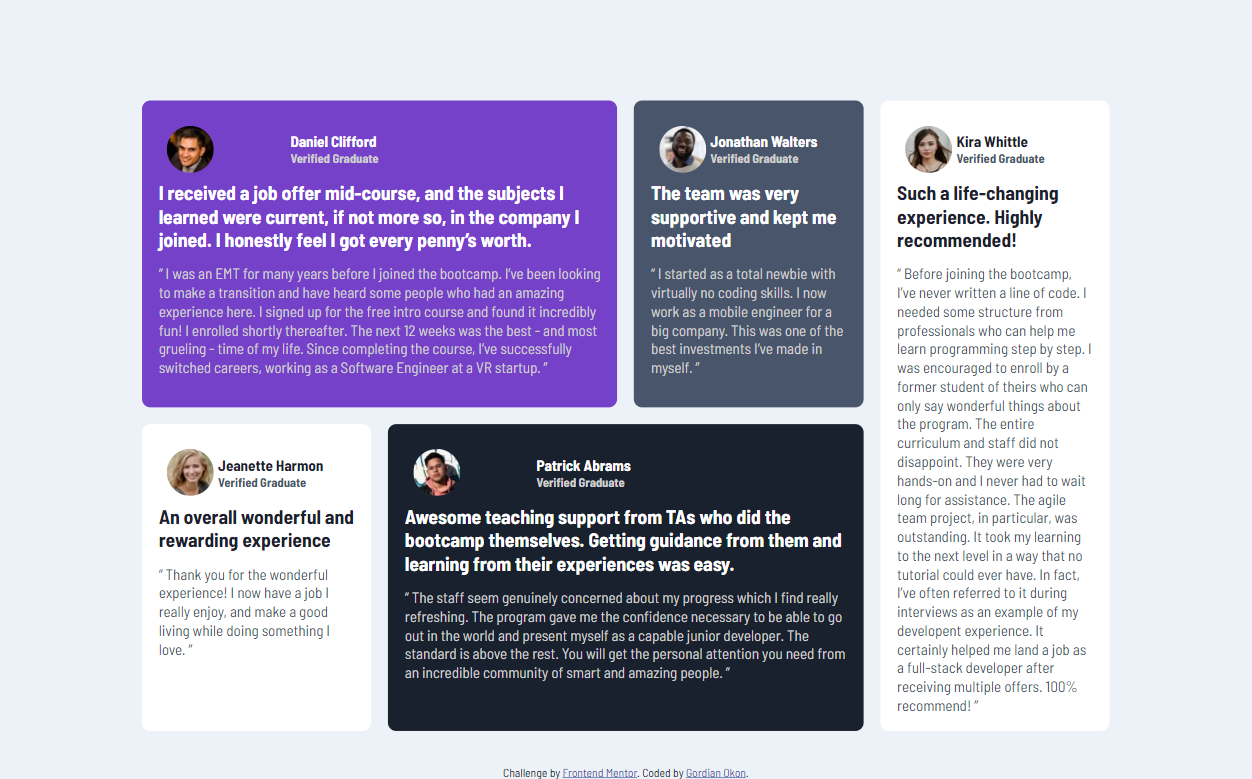
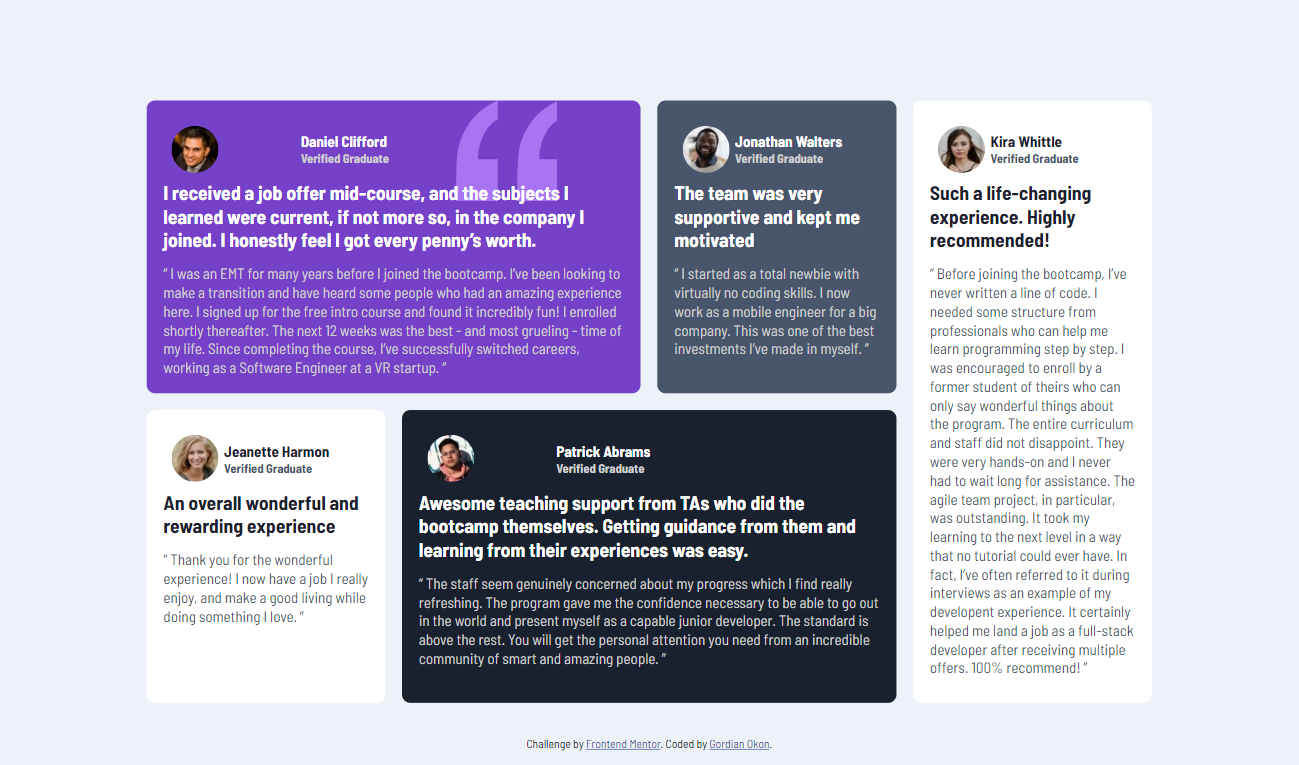
fix: changed the p to h1 tags and styles

Changed region(s): [[0.0935, 0.1203, 0.6853, 0.8719], [0.3115, 0.1503, 0.8722, 1.0], [0.1246, 0.5712, 0.2804, 0.8418]]

diff --git a/index.html b/index.html
@@ -24,11 +24,11 @@
           </div>
         </div>
         <div class="para-wrapper">
-          <p>
+          <h1>
             I received a job offer mid-course, and the subjects I learned were
             current, if not more so, in the company I joined. I honestly feel I
             got every penny’s worth.
-          </p>
+          </h1>
           <p>
             “ I was an EMT for many years before I joined the bootcamp. I’ve
             been looking to make a transition and have heard some people who had
@@ -49,7 +49,7 @@
           </div>
         </div>
         <div class="para-wrapper">
-          <p>The team was very supportive and kept me motivated</p>
+          <h1>The team was very supportive and kept me motivated</h1>
           <p>
             “ I started as a total newbie with virtually no coding skills. I now
             work as a mobile engineer for a big company. This was one of the
@@ -66,7 +66,7 @@
           </div>
         </div>
         <div class="para-wrapper">
-          <p>An overall wonderful and rewarding experience</p>
+          <h1>An overall wonderful and rewarding experience</h1>
           <p>
             “ Thank you for the wonderful experience! I now have a job I really
             enjoy, and make a good living while doing something I love. ”
@@ -82,11 +82,11 @@
           </div>
         </div>
         <div class="para-wrapper">
-          <p>
+          <h1>
             Awesome teaching support from TAs who did the bootcamp themselves.
             Getting guidance from them and learning from their experiences was
             easy.
-          </p>
+          </h1>
           <p>
             “ The staff seem genuinely concerned about my progress which I find
             really refreshing. The program gave me the confidence necessary to
@@ -106,7 +106,7 @@
           </div>
         </div>
         <div class="para-wrapper">
-          <p>Such a life-changing experience. Highly recommended!</p>
+          <h1>Such a life-changing experience. Highly recommended!</h1>
           <p>
             “ Before joining the bootcamp, I’ve never written a line of code. I
             needed some structure from professionals who can help me learn

diff --git a/style.css b/style.css
@@ -23,7 +23,7 @@ main {
   border-radius: 10px;
 }
 
-.child p:first-of-type {
+.child h1 {
   font-weight: 700;
   font-size: 1.3rem;
   margin-bottom: 15px;
@@ -42,7 +42,7 @@ main {
   background-image: url("./images/bg-pattern-quotation.svg");
   top: 0;
   z-index: -1;
-  right: 50px;
+  right: 100px;
   width: 120px;
   height: 120px;
 }
@@ -80,33 +80,33 @@ main {
 }
 
 .one h4,
-.one p:first-of-type,
+.one h1,
 .two h4,
-.two p:first-of-type,
-.four h4,
-.four p:first-of-type {
+.two h1,
+.four h1,
+.four p {
   color: hsl(0, 0%, 100%);
 }
 
 .one h5,
-.one p:nth-of-type(2),
+.one p,
 .two h5,
-.two p:nth-of-type(2),
+.two p,
 .four h5,
-.four p:nth-of-type(2) {
+.four p {
   color: hsl(0, 0%, 81%);
 }
 
-.three p:first-of-type,
+.three h1,
 .three h4,
-.five p:first-of-type,
+.five h1,
 .five h4 {
   color: hsl(219, 29%, 14%);
 }
 
-.three p:nth-of-type(2),
+.three p,
 .three h5,
-.five p:nth-of-type(2),
+.five p,
 .five h5 {
   color: hsl(217, 19%, 35%);
 }

diff --git a/README.md b/README.md
@@ -1,91 +1,49 @@
-# Frontend Mentor - Testimonials grid section
+# Frontend Mentor - Testimonials grid section solution
 
-![Design preview for the Testimonials grid section coding challenge](./design/desktop-preview.jpg)
+This is a solution to the [Testimonials grid section challenge on Frontend Mentor](https://www.frontendmentor.io/challenges/testimonials-grid-section-Nnw6J7Un7). Frontend Mentor challenges help you improve your coding skills by building realistic projects.
 
-## Welcome! 👋
+## Table of contents
 
-Thanks for checking out this front-end coding challenge.
+- [Overview](#overview)
+  - [The challenge](#the-challenge)
+  - [Screenshot](#screenshot)
+  - [Links](#links)
+  - [Built with](#built-with)
+  - [What I learned](#what-i-learned)
+- [Author](#author)
 
-[Frontend Mentor](https://www.frontendmentor.io) challenges help you improve your coding skills by building realistic projects.
+## Overview
 
-**To do this challenge, you need a basic understanding of HTML and CSS.**
+### The challenge
 
-## The challenge
-
-Your challenge is to build out this testimonials grid section and get it looking as close to the design as possible.
-
-You can use any tools you like to help you complete the challenge. So if you've got something you'd like to practice, feel free to give it a go.
-
-Your users should be able to:
+Users should be able to:
 
 - View the optimal layout for the site depending on their device's screen size
 
-Want some support on the challenge? [Join our community](https://www.frontendmentor.io/community) and ask questions in the **#help** channel.
+### Screenshot
 
-## Where to find everything
+![](./screenshot.png)
 
-Your task is to build out the project to the designs inside the `/design` folder. You will find both a mobile and a desktop version of the design. 
+### Links
 
-The designs are in JPG static format. Using JPGs will mean that you'll need to use your best judgment for styles such as `font-size`, `padding` and `margin`. 
+- Live Site URL: [Add live site URL here](https://testimonial-secion.vercel.app/)
 
-If you would like the design files (we provide Sketch & Figma versions) to inspect the design in more detail, you can [subscribe as a PRO member](https://www.frontendmentor.io/pro).
+## My process
 
-You will find all the required assets in the `/images` folder. The assets are already optimized.
+### Built with
 
-There is also a `style-guide.md` file containing the information you'll need, such as color palette and fonts.
+- Semantic HTML5 markup
+- CSS custom properties
+- Flexbox
+- CSS Grid
+- Mobile-first workflow
 
-## Building your project
+### What I learned
 
-Feel free to use any workflow that you feel comfortable with. Below is a suggested process, but do not feel like you need to follow these steps:
+i learned how to use the before and after pseudo elements. that was the way i added that background quotation img.
 
-1. Initialize your project as a public repository on [GitHub](https://github.com/). Creating a repo will make it easier to share your code with the community if you need help. If you're not sure how to do this, [have a read-through of this Try Git resource](https://try.github.io/).
-2. Configure your repository to publish your code to a web address. This will also be useful if you need some help during a challenge as you can share the URL for your project with your repo URL. There are a number of ways to do this, and we provide some recommendations below.
-3. Look through the designs to start planning out how you'll tackle the project. This step is crucial to help you think ahead for CSS classes to create reusable styles.
-4. Before adding any styles, structure your content with HTML. Writing your HTML first can help focus your attention on creating well-structured content.
-5. Write out the base styles for your project, including general content styles, such as `font-family` and `font-size`.
-6. Start adding styles to the top of the page and work down. Only move on to the next section once you're happy you've completed the area you're working on.
+## Author
 
-## Deploying your project
-
-As mentioned above, there are many ways to host your project for free. Our recommended hosts are:
-
-- [GitHub Pages](https://pages.github.com/)
-- [Vercel](https://vercel.com/)
-- [Netlify](https://www.netlify.com/)
-
-You can host your site using one of these solutions or any of our other trusted providers. [Read more about our recommended and trusted hosts](https://medium.com/frontend-mentor/frontend-mentor-trusted-hosting-providers-bf000dfebe).
-
-## Create a custom `README.md`
-
-We strongly recommend overwriting this `README.md` with a custom one. We've provided a template inside the [`README-template.md`](./README-template.md) file in this starter code.
-
-The template provides a guide for what to add. A custom `README` will help you explain your project and reflect on your learnings. Please feel free to edit our template as much as you like.
-
-Once you've added your information to the template, delete this file and rename the `README-template.md` file to `README.md`. That will make it show up as your repository's README file.
-
-## Submitting your solution
-
-Submit your solution on the platform for the rest of the community to see. Follow our ["Complete guide to submitting solutions"](https://medium.com/frontend-mentor/a-complete-guide-to-submitting-solutions-on-frontend-mentor-ac6384162248) for tips on how to do this.
-
-Remember, if you're looking for feedback on your solution, be sure to ask questions when submitting it. The more specific and detailed you are with your questions, the higher the chance you'll get valuable feedback from the community.
-
-## Sharing your solution
-
-There are multiple places you can share your solution:
-
-1. Share your solution page in the **#finished-projects** channel of the [community](https://www.frontendmentor.io/community). 
-2. Tweet [@frontendmentor](https://twitter.com/frontendmentor) and mention **@frontendmentor**, including the repo and live URLs in the tweet. We'd love to take a look at what you've built and help share it around.
-3. Share your solution on other social channels like LinkedIn.
-4. Blog about your experience building your project. Writing about your workflow, technical choices, and talking through your code is a brilliant way to reinforce what you've learned. Great platforms to write on are [dev.to](https://dev.to/), [Hashnode](https://hashnode.com/), and [CodeNewbie](https://community.codenewbie.org/).
-
-We provide templates to help you share your solution once you've submitted it on the platform. Please do edit them and include specific questions when you're looking for feedback. 
-
-The more specific you are with your questions the more likely it is that another member of the community will give you feedback.
-
-## Got feedback for us?
-
-We love receiving feedback! We're always looking to improve our challenges and our platform. So if you have anything you'd like to mention, please email hi[at]frontendmentor[dot]io.
-
-This challenge is completely free. Please share it with anyone who will find it useful for practice.
-
-**Have fun building!** 🚀
+- Website - [Gordian Okon](https://gordian-okon.vercel.app)
+- Frontend Mentor - [@guardianprime](https://www.frontendmentor.io/profile/guardianprime)
+- Twitter - [@GordianOkon](https://www.twitter.com/GordianOkon)
